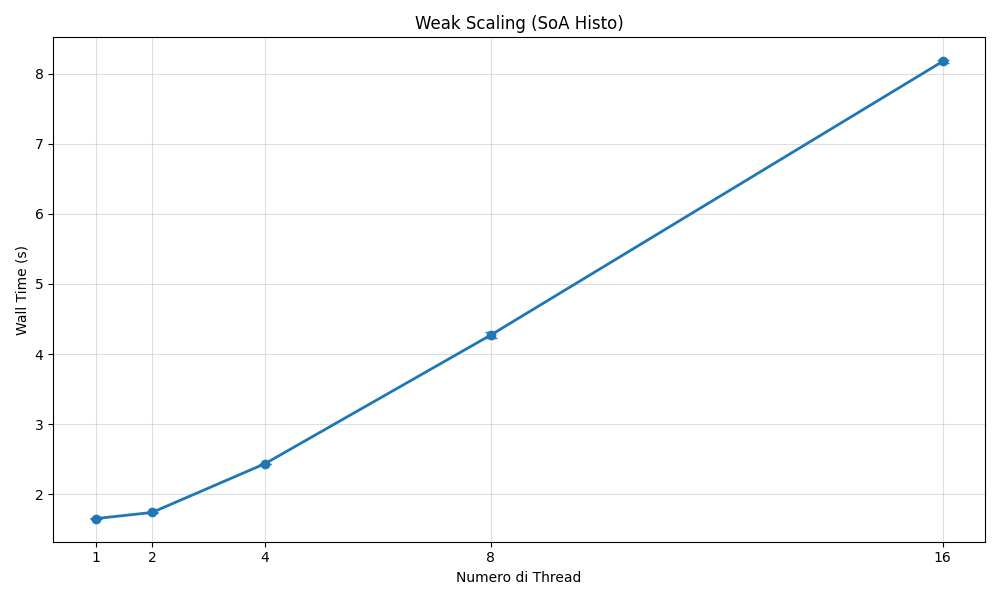
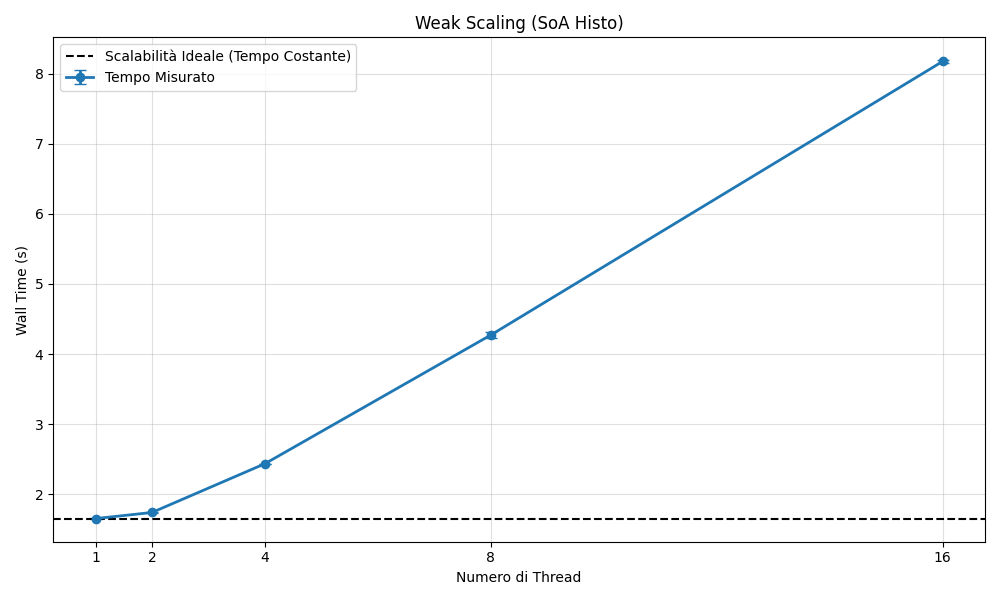
update grafico e commenti

Changed region(s): [[0.062, 0.06, 0.372, 0.15]]

diff --git a/src/boids_core.c b/src/boids_core.c
@@ -121,11 +121,13 @@ void update_indices(const BoidSystem* boids, int num_boids, SimulationContext* c
 
     #pragma omp parallel
     {
+        // Reset
         #pragma omp for
         for (int c = 0; c < total_cells; c++) {
             ctx->counting_cell[c] = 0;
         }
 
+        // Conteggio boids per ogni cella
         #pragma omp for
         for (int i = 0; i < num_boids; i++) {
             int cell = get_cell_index(B_X(boids, i), B_Y(boids, i), cols, rows);
@@ -133,6 +135,7 @@ void update_indices(const BoidSystem* boids, int num_boids, SimulationContext* c
             ctx->counting_cell[cell]++;
         }
 
+        // Calcolo degli offset
         #pragma omp single
         {
             ctx->cell_offsets[0] = 0;
@@ -144,6 +147,7 @@ void update_indices(const BoidSystem* boids, int num_boids, SimulationContext* c
             memcpy(ctx->temp_offsets, ctx->cell_offsets, total_cells * sizeof(int));
         }
 
+        // Ordinamento degli indici
         #pragma omp for
         for (int i = 0; i < num_boids; i++) {
             int cell = get_cell_index(B_X(boids, i), B_Y(boids, i), cols, rows);
@@ -165,13 +169,19 @@ void update_indices(const BoidSystem* boids, int num_boids, SimulationContext* c
         // Reset locale
         memset(my_hist, 0, total_cells * sizeof(int));
 
-        // Conteggio locale
+        /* I thread si dividono i boids e costruiscono un istogramma locale:
+           my_hist[c] contiene quanti boids di questo thread appartengono
+           alla cella c. */
+
         #pragma omp for
         for (int i = 0; i < num_boids; i++) {
             my_hist[get_cell_index(B_X(boids, i), B_Y(boids, i), cols, rows)]++;
         }
 
-        // Riduzione globale (Somma degli istogrammi)
+        /*  Riduzione: i thread si dividono il numero di celle, e per ogni cella contano
+            quanti boids hanno contato gli altri threads per quella cella, e scrivono
+            il totale in counting_cell */
+
         #pragma omp for
         for (int c = 0; c < total_cells; c++) {
             int sum = 0;
@@ -179,7 +189,7 @@ void update_indices(const BoidSystem* boids, int num_boids, SimulationContext* c
             ctx->counting_cell[c] = sum;
         }
 
-        // Prefissi globali (Punto di inizio di ogni cella), non parallelizzabile per la dipendenza da i-1
+        // Calcolo degli offset, non parallelizzato
         #pragma omp single
         {
             ctx->cell_offsets[0] = 0;
@@ -187,15 +197,25 @@ void update_indices(const BoidSystem* boids, int num_boids, SimulationContext* c
                 ctx->cell_offsets[i+1] = ctx->cell_offsets[i] + ctx->counting_cell[i];
         }
 
-        // Calcolo posizioni di scrittura private per thread
-        // per evitare collisioni in sorted_ind
+        /*  Ogni thread calcola l'offset da cui iniziare a scrivere per ogni cella.
+            L'offset è dato da:
+
+            cell_offsets[c] +
+            numero di boids della cella c contati dai thread precedenti.
+
+            In questo modo ogni thread ottiene una porzione distinta dell'intervallo
+            della cella dentro sorted_ind e può scrivere senza collisioni con gli altri. */
+
         for (int c = 0; c < total_cells; c++) {
             int thread_offset = 0;
             for (int t = 0; t < tid; t++) thread_offset += ctx->local_histograms[t][c];
             my_offs[c] = ctx->cell_offsets[c] + thread_offset;
         }
 
-        // Aggiornamento sorted_ind
+        /*  Orindamento indici dei boids. Ogni thread utilizza la propria copia privata
+            di offset, per non dover modificare una risorsa condivisa.
+            Ogni thread lavora sul proprio offset */
+
         #pragma omp for
         for (int i = 0; i < num_boids; i++) {
             const int cell = get_cell_index(B_X(boids, i), B_Y(boids, i), cols, rows);
@@ -206,13 +226,16 @@ void update_indices(const BoidSystem* boids, int num_boids, SimulationContext* c
     #else
         // SEQUENZIALE
         memset(ctx->counting_cell, 0, total_cells * sizeof(int));
+        // Conteggio boids per ogni cella
         for (int i = 0; i < num_boids; i++) ctx->counting_cell[get_cell_index(B_X(boids, i), B_Y(boids, i), cols, rows)]++;
 
+        // Calcolo degli offset
         ctx->cell_offsets[0] = 0;
         for (int i = 0; i < total_cells; i++) ctx->cell_offsets[i+1] = ctx->cell_offsets[i] + ctx->counting_cell[i];
 
         memcpy(ctx->temp_offsets, ctx->cell_offsets, total_cells * sizeof(int));
 
+        // Ordinamento degli indici
         for (int i = 0; i < num_boids; i++) {
             ctx->sorted_ind[ctx->temp_offsets[get_cell_index(B_X(boids, i), B_Y(boids, i), cols, rows)]++] = i;
         }

diff --git a/src/boids_simulation.c b/src/boids_simulation.c
@@ -52,7 +52,6 @@ void set_window(const int num_boids) {
 
 SimulationResult boids_simulation(const int num_boids, const int frames, bool show_graphics, bool return_data) {
     // Double Buffering per evitare conflitti di lettura/scrittura durante l'aggiornamento dei Boids
-    // e struttura aggiuntiva per mantenere i boids ordinati per cella
     BoidSystem struct_old_boids, struct_new_boids;
 
     init_boids_system(&struct_old_boids, num_boids);
@@ -81,8 +80,8 @@ SimulationResult boids_simulation(const int num_boids, const int frames, bool sh
         const float dt = show_graphics ? GetFrameTime() : 0.016f;
 
         update_indices(old_boids, num_boids, &sim);
-        // Per ridurre l'overhead di ordinamento, lo facciamo solo ogni SORTING_FREQUENCY frame.
-        // Questo è un compromesso tra avere boids più vicini in memoria e il costo di ordinamento.
+        // Per ridurre l'overhead di ordinamento, si ordina ogni SORTING_FREQUENCY frame.
+        // Compromesso tra avere boids più vicini in memoria e il costo di ordinamento.
         if (frame % SORTING_FREQUENCY == 0) {
             sort_boids_by_cell(old_boids, num_boids, sim.sorted_ind, new_boids);
             BoidSystem *temp = old_boids;

diff --git a/src/boids_manager.c b/src/boids_manager.c
@@ -11,9 +11,11 @@
 #endif
 
 void init_boids(const BoidSystem* boids, const int num_boids) {
-    // Si assegnano valori iniziali randomici ai boids
-    // Questa parte poteva essere parallela, ma non rientrando nella parte
-    // da misurare nelle prestazioni è rimasta sequenziale
+
+    /* Si assegnano valori iniziali randomici ai boids.
+       Questa parte poteva essere parallela, ma non rientrando nella parte
+       da misurare nelle prestazioni è rimasta sequenziale */
+
     unsigned int master_seed = 42;
     for (int i = 0; i < num_boids; i++) {
         const float start_x = MARGIN_X + (rand_r(&master_seed) % (SCREEN_WIDTH - 2 * MARGIN_X));
@@ -32,8 +34,7 @@ void init_boids(const BoidSystem* boids, const int num_boids) {
 void init_boids_system(BoidSystem *b, int num_boids) {
     b->count = num_boids;
 
-    // Dimensione della linea di cache
-    // Allineare la memoria per massimizzare l'efficienza
+    // Dimensione della linea di cache. Allineare la memoria per massimizzare l'efficienza
     long alignment = sysconf(_SC_LEVEL1_DCACHE_LINESIZE);
     if (alignment <= 0) {
         alignment = 64;

diff --git a/src/main.c b/src/main.c
@@ -32,21 +32,6 @@ Stats compute_stats(double* times, int n) {
     return (Stats){mean, sqrt(sum_sq / n)};
 }
 
-void print_info() {
-    printf("============================================\n");
-    #ifdef _OPENMP
-        printf(" ENGINE: PARALLELO (OpenMP %d threads max)\n", omp_get_max_threads());
-    #else
-        printf(" ENGINE: SEQUENZIALE\n");
-    #endif
-    #ifdef USE_SOA
-        printf(" LAYOUT: SoA (Structure of Arrays)\n");
-    #else
-        printf(" LAYOUT: AoS (Array of Structures)\n");
-    #endif
-    printf("============================================\n\n");
-}
-
 void parse_args(int argc, char* argv[], Config* cfg) {
     strcpy(cfg->mode, "");
     cfg->boids = -1;
@@ -159,8 +144,6 @@ int main(int argc, char* argv[]) {
     #ifdef _OPENMP
     omp_set_num_threads(cfg.threads);
     #endif
-
-    print_info();
 
     if (strcmp(cfg.mode, "benchmark") == 0) run_benchmark(&cfg);
     else if (strcmp(cfg.mode, "validate") == 0) run_validate(&cfg);

diff --git a/scripts/analisi_dati.py b/scripts/analisi_dati.py
@@ -176,11 +176,14 @@ threads = df_weak['Threads']
 time = df_weak['WallTime_Avg']
 std = df_weak['WallTime_StdDev']
 
-plt.errorbar(threads, time, yerr=std, marker='o', linewidth=2, capsize=4)
+plt.errorbar(threads, time, yerr=std, marker='o', linewidth=2, capsize=4, label='Tempo Misurato')
 
 plt.xlabel('Numero di Thread')
 plt.ylabel('Wall Time (s)')
 plt.title('Weak Scaling (SoA Histo)')
+t_weak_1 = df_weak[df_weak['Threads'] == 1]['WallTime_Avg'].values[0]
+plt.axhline(y=t_weak_1, color='k', linestyle='--', label='Scalabilità Ideale (Tempo Costante)')
+plt.legend()
 plt.xticks(threads)
 plt.grid(True, alpha=0.4)
 plt.tight_layout()
